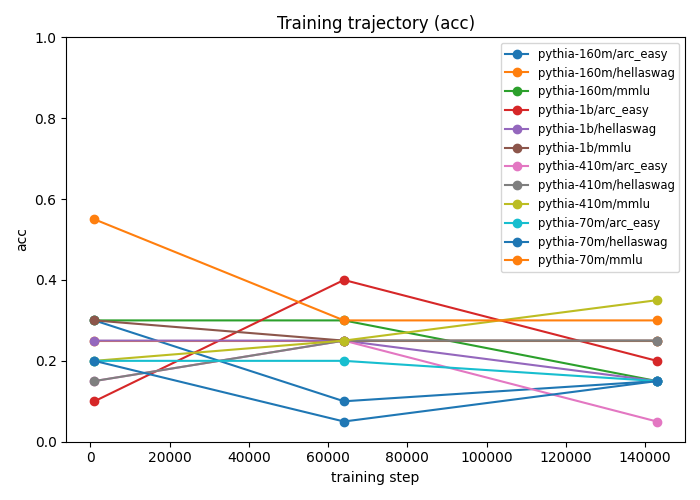
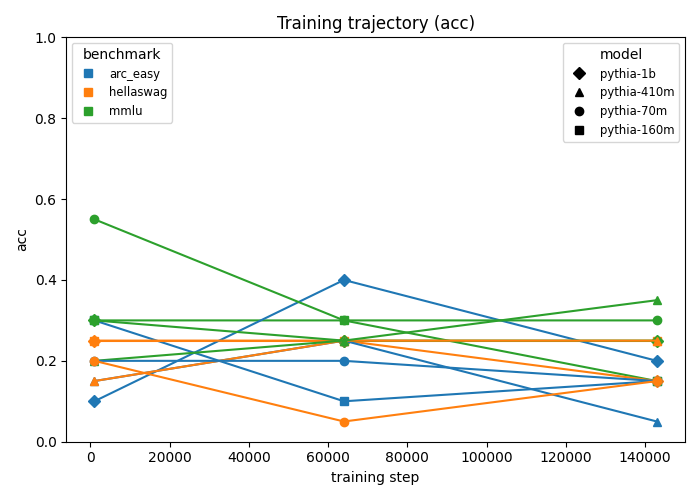
[Sprint-2.5] fix trajectory figure color collisions on the full ladder
- trajectory_chart now encodes benchmark as line color and model size as marker shape, instead of one color per (model, dataset) line
- two separate legends (benchmark colors, model markers) instead of one combined label per line

diff --git a/src/ladder/figures.py b/src/ladder/figures.py
@@ -30,6 +30,72 @@ PYTHIA_PARAM_COUNTS = {
 # sweep (arc_easy, hellaswag, mmlu all have 4 choices per item).
 _CHANCE_RATE = {"arc_easy": 0.25, "hellaswag": 0.25, "mmlu": 0.25}
 
+# Fixed dataset -> color assignment, shared by every figure that plots more
+# than one benchmark. A plain matplotlib color cycler repeats after 10 lines
+# and starts colliding once trajectory_chart has 4 models x 3 benchmarks (12
+# lines) — assigning color by benchmark and marker by model (below) keeps
+# every line visually distinct regardless of how many models are in the DB.
+_DATASET_COLORS = {
+    "arc_easy": "tab:blue",
+    "hellaswag": "tab:orange",
+    "mmlu": "tab:green",
+}
+_FALLBACK_COLOR_CYCLE = ["tab:red", "tab:purple", "tab:brown", "tab:pink", "tab:gray", "tab:olive", "tab:cyan"]
+
+
+def _color_for_dataset(dataset: str, seen: dict[str, str]) -> str:
+    """Look up (or deterministically assign) a plot color for `dataset`.
+
+    Args:
+        dataset: Registry dataset name.
+        seen: Mutable dataset -> color cache shared across one chart's calls,
+            so an unrecognized dataset gets a stable color for the life of
+            that figure instead of a fresh one per line.
+
+    Returns:
+        A matplotlib color string. Known benchmarks (`_DATASET_COLORS`) get
+        a fixed, memorable color; anything else is assigned the next unused
+        color from `_FALLBACK_COLOR_CYCLE`, in first-seen order.
+    """
+    if dataset in _DATASET_COLORS:
+        return _DATASET_COLORS[dataset]
+    if dataset not in seen:
+        seen[dataset] = _FALLBACK_COLOR_CYCLE[len(seen) % len(_FALLBACK_COLOR_CYCLE)]
+    return seen[dataset]
+
+
+# Fixed model -> marker assignment, ordered by param count (small model =
+# simple marker, large model = more complex marker) so trajectory_chart's
+# legend reads as a size progression at a glance, independent of color.
+_MODEL_MARKERS = {
+    "pythia-70m": "o",
+    "pythia-160m": "s",
+    "pythia-410m": "^",
+    "pythia-1b": "D",
+}
+_FALLBACK_MARKER_CYCLE = ["v", "P", "X", "*", "h"]
+
+
+def _marker_for_model(model_id: str, seen: dict[str, str]) -> str:
+    """Look up (or deterministically assign) a plot marker for `model_id`.
+
+    Args:
+        model_id: Registry model_id.
+        seen: Mutable model_id -> marker cache shared across one chart's
+            calls, so an unrecognized model_id gets a stable marker for the
+            life of that figure instead of a fresh one per line.
+
+    Returns:
+        A matplotlib marker string. Known Pythia sizes (`_MODEL_MARKERS`)
+        get a fixed marker ordered by scale; anything else is assigned the
+        next unused marker from `_FALLBACK_MARKER_CYCLE`, in first-seen order.
+    """
+    if model_id in _MODEL_MARKERS:
+        return _MODEL_MARKERS[model_id]
+    if model_id not in seen:
+        seen[model_id] = _FALLBACK_MARKER_CYCLE[len(seen) % len(_FALLBACK_MARKER_CYCLE)]
+    return seen[model_id]
+
 # Pythia's final checkpoint is step143000 (project_summary.md); "main" resolves
 # to it on the Hub but carries no literal step number, so the trajectory
 # figure's x-axis needs an explicit mapping for that one revision label.
@@ -130,12 +196,14 @@ def scaling_curve_chart(
         series.setdefault(r.dataset, []).append((math.log10(n_params), r.metrics[metric]))
 
     fig, ax = plt.subplots(figsize=(7, 5))
+    seen_colors: dict[str, str] = {}
     for dataset in sorted(series):
         points = sorted(series[dataset])
         xs, ys = zip(*points)
-        (line,) = ax.plot(xs, ys, marker="o", label=dataset)
+        color = _color_for_dataset(dataset, seen_colors)
+        ax.plot(xs, ys, marker="o", label=dataset, color=color)
         if dataset in _CHANCE_RATE:
-            ax.axhline(_CHANCE_RATE[dataset], linestyle="--", linewidth=1, color=line.get_color(), alpha=0.6)
+            ax.axhline(_CHANCE_RATE[dataset], linestyle="--", linewidth=1, color=color, alpha=0.6)
 
     ax.set_xlabel("log10(parameters)")
     ax.set_ylabel(metric)
@@ -156,6 +224,14 @@ def trajectory_chart(runs: list[RunRecord], out_path: str | Path, metric: str = 
     The training-trajectory figure (architecture.md §10): shows how each
     model's score on each benchmark moves across its own intermediate
     checkpoints, using every revision in the sweep (not just the final one).
+
+    With up to 4 models x 3+ benchmarks in the DB, a plain color-per-line
+    cycler runs out of distinguishable colors (matplotlib's default cycle is
+    10) and starts reusing them. Instead, line color encodes the benchmark
+    (`_color_for_dataset`) and marker shape encodes the model size
+    (`_marker_for_model`, ordered small-to-large) — every line stays visually
+    distinct, and the two legends below make each encoding explicit rather
+    than cramming both into one "model/dataset" label per entry.
 
     Args:
         runs: `RunRecord`s to plot. Only `status == "done"` runs with a
@@ -185,17 +261,38 @@ def trajectory_chart(runs: list[RunRecord], out_path: str | Path, metric: str = 
         series.setdefault((r.model_id, r.dataset), []).append((step, r.metrics[metric]))
 
     fig, ax = plt.subplots(figsize=(7, 5))
+    seen_colors: dict[str, str] = {}
+    seen_markers: dict[str, str] = {}
     for model_id, dataset in sorted(series):
         points = sorted(series[(model_id, dataset)])
         xs, ys = zip(*points)
-        ax.plot(xs, ys, marker="o", label=f"{model_id}/{dataset}")
+        ax.plot(
+            xs,
+            ys,
+            marker=_marker_for_model(model_id, seen_markers),
+            color=_color_for_dataset(dataset, seen_colors),
+        )
 
     ax.set_xlabel("training step")
     ax.set_ylabel(metric)
     ax.set_ylim(0, 1)
     ax.set_title(f"Training trajectory ({metric})")
+
     if series:
-        ax.legend(fontsize="small")
+        datasets = sorted({dataset for _, dataset in series})
+        models = sorted({model_id for model_id, _ in series}, key=lambda m: _MODEL_MARKERS.get(m, m))
+        color_handles = [
+            plt.Line2D([], [], color=_color_for_dataset(d, seen_colors), marker="s", linestyle="", label=d)
+            for d in datasets
+        ]
+        marker_handles = [
+            plt.Line2D([], [], color="black", marker=_marker_for_model(m, seen_markers), linestyle="", label=m)
+            for m in models
+        ]
+        benchmark_legend = ax.legend(handles=color_handles, title="benchmark", loc="upper left", fontsize="small")
+        ax.add_artist(benchmark_legend)
+        ax.legend(handles=marker_handles, title="model", loc="upper right", fontsize="small")
+
     fig.tight_layout()
     fig.savefig(out_path)
     plt.close(fig)

diff --git a/tests/test_figures.py b/tests/test_figures.py
@@ -2,6 +2,8 @@
 
 from ladder.figures import (
     PYTHIA_PARAM_COUNTS,
+    _color_for_dataset,
+    _marker_for_model,
     _revision_to_step,
     accuracy_bar_chart,
     scaling_curve_chart,
@@ -150,3 +152,52 @@ def test_trajectory_chart_skips_unparseable_revisions_and_missing_metric(tmp_pat
     trajectory_chart(runs, out_path)
 
     assert out_path.exists()
+
+
+def test_trajectory_chart_renders_full_ladder_without_raising(tmp_path):
+    # 4 models x 3 benchmarks x 3 revisions = 36 lines' worth of points — the
+    # scenario that overflowed matplotlib's default 10-color cycle before
+    # color-by-benchmark/marker-by-model was introduced.
+    out_path = tmp_path / "trajectory.png"
+    runs = [
+        _run(f"r-{model_id}-{dataset}-{revision}", acc=0.3, model_id=model_id, revision=revision, dataset=dataset)
+        for model_id in PYTHIA_PARAM_COUNTS
+        for dataset in ["arc_easy", "hellaswag", "mmlu"]
+        for revision in ["step1000", "step64000", "main"]
+    ]
+
+    trajectory_chart(runs, out_path)
+
+    assert out_path.exists()
+    assert out_path.stat().st_size > 0
+
+
+def test_color_for_dataset_is_fixed_for_known_benchmarks():
+    seen = {}
+    assert _color_for_dataset("arc_easy", seen) == "tab:blue"
+    assert _color_for_dataset("hellaswag", seen) == "tab:orange"
+    assert _color_for_dataset("mmlu", seen) == "tab:green"
+    assert seen == {}  # known benchmarks never touch the fallback cache
+
+
+def test_color_for_dataset_assigns_stable_fallback_colors():
+    seen = {}
+    first = _color_for_dataset("gsm8k", seen)
+    second = _color_for_dataset("gsm8k", seen)
+    other = _color_for_dataset("lambada", seen)
+    assert first == second
+    assert other != first
+
+
+def test_marker_for_model_is_fixed_and_distinct_for_the_ladder():
+    seen = {}
+    markers = {_marker_for_model(m, seen) for m in PYTHIA_PARAM_COUNTS}
+    assert len(markers) == len(PYTHIA_PARAM_COUNTS)  # every model gets its own marker
+    assert seen == {}  # known Pythia sizes never touch the fallback cache
+
+
+def test_marker_for_model_assigns_stable_fallback_markers():
+    seen = {}
+    first = _marker_for_model("some-other-model", seen)
+    second = _marker_for_model("some-other-model", seen)
+    assert first == second

diff --git a/architecture.md b/architecture.md
@@ -227,6 +227,7 @@ predictions(request_hash PK, model_id, revision, payload_json)
   - `_CHANCE_RATE` is a small fixed dict keyed by dataset (`arc_easy`/`hellaswag`/`mmlu` → 0.25, all 4-choice MC in the Sprint-2 grid); `scaling_curve_chart` draws one dashed chance line per benchmark that has an entry, color-matched to that benchmark's line. Not generalized beyond MC yet — PPL/GSM8K have no "chance" concept in the same sense.
   - Both functions accept `metric: str = "acc"` so `acc_norm` can be plotted by passing `metric="acc_norm"`; the CLI's `figures` command currently only calls the `acc` variant (Phase 2.2's acc/acc_norm divergence-as-a-finding is future report material, not wired into the CLI's default figure set yet).
   - `ladderctl figures` now writes three files unconditionally: `accuracy_per_run.png` (Sprint 1's bar chart, kept for now), `scaling_curve.png`, `trajectory.png`.
+  - **Color/marker encoding is fixed, not a default cycler.** `trajectory_chart` plots up to 4 models × 3+ benchmarks (12+ lines); matplotlib's default color cycle only has 10 entries and starts silently reusing colors past that, making lines indistinguishable. Line color is assigned by benchmark (`_color_for_dataset`, fixed `_DATASET_COLORS` for the known Sprint-2 benchmarks, a small fallback cycle for anything else) and marker shape by model size (`_marker_for_model`, fixed `_MODEL_MARKERS` ordered smallest-to-largest Pythia size, same fallback pattern). `scaling_curve_chart` reuses `_color_for_dataset` too, so a benchmark's color is consistent across both figures. `trajectory_chart` renders two separate legends (`ax.add_artist` to keep both), one for the color→benchmark mapping and one for the marker→model mapping, rather than one combined "model/dataset" legend entry per line.
 
 ---
 
